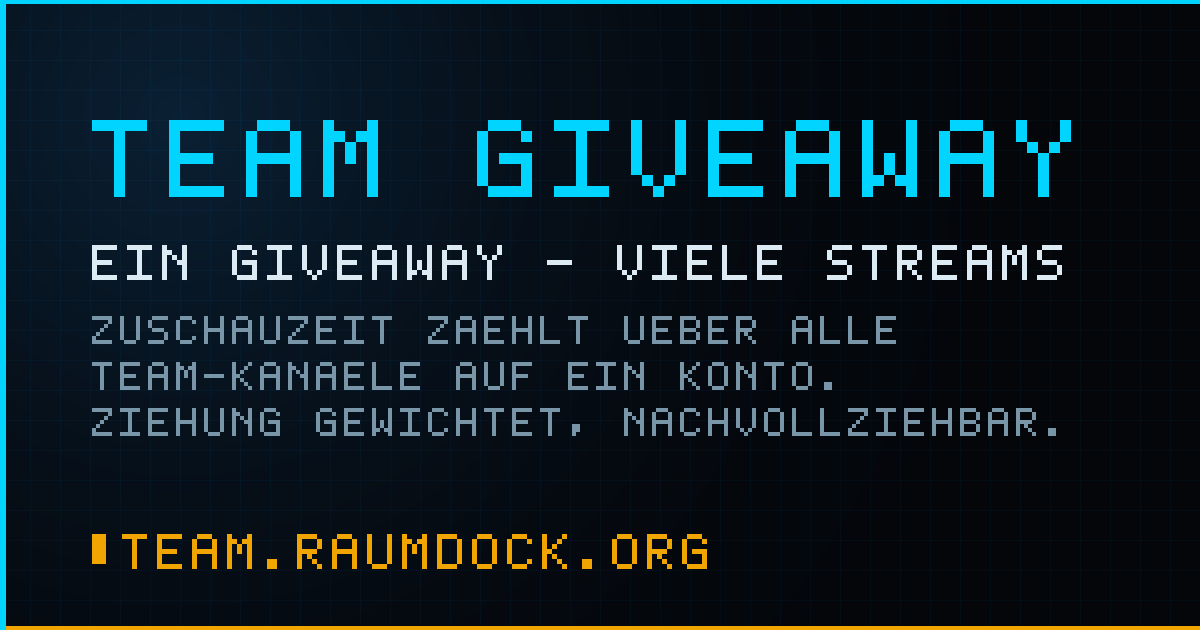
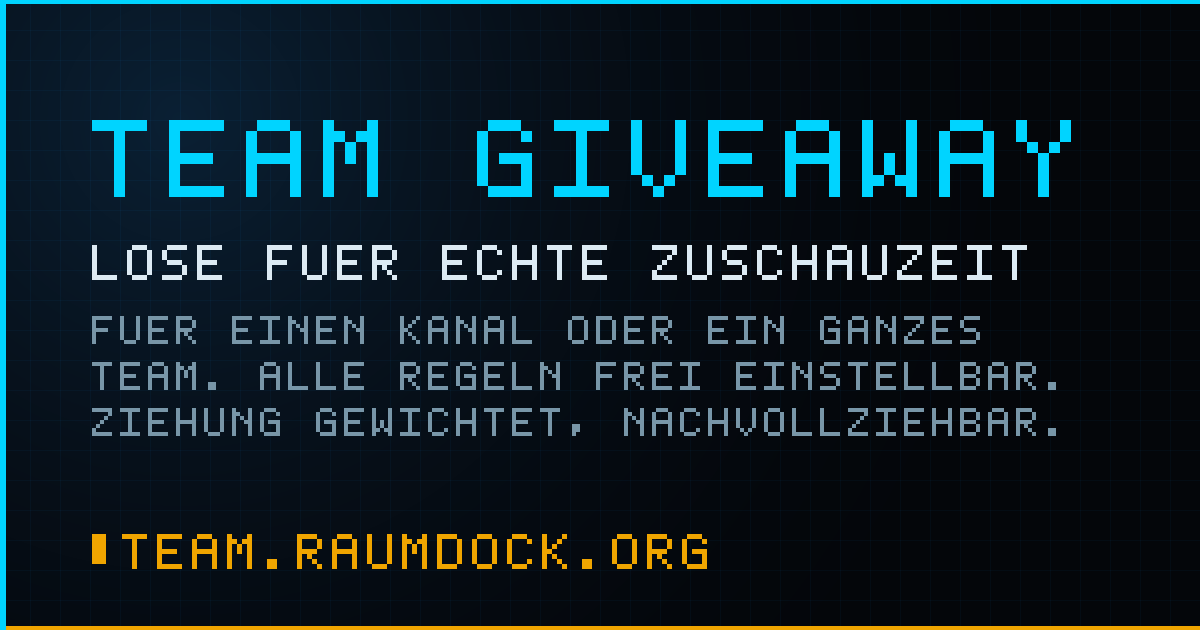
docs(web): state that rules are configurable and a team is optional
The landing page presented the defaults as if they were the rules -
"2 h = 1 Los", "mindestens 2 Team-Kanaelen folgen" - and framed the
whole product as team-only. Both misrepresent what the system does:
every threshold is a per-team setting, and a single channel with the
follow requirement set to 1 or 0 works exactly the same.

Each step now names which values it exposes, marked as defaults.
Hero, audience section and metadata cover the single-streamer case,
and FEATURES.md gains a settings table with actual ranges.

Verified against the engine before writing it down: one channel,
followMin 1 and 0 both yield eligible participants.

diff --git a/services/admin/public/home.html b/services/admin/public/home.html
@@ -3,8 +3,8 @@
 <head>
 <meta charset="UTF-8">
 <meta name="viewport" content="width=device-width, initial-scale=1">
-<title>Team Giveaway — Multi-Channel Community-Giveaway für Twitch-Teams</title>
-<meta name="description" content="Ein Giveaway über mehrere Twitch-Kanäle: Zuschauzeit zählt kanalübergreifend auf ein Konto. Gewichtete, nachvollziehbare Ziehung.">
+<title>Team Giveaway — Community-Giveaway nach Zuschauzeit für Twitch</title>
+<meta name="description" content="Giveaway nach echter Zuschauzeit — für einen Kanal oder ein ganzes Team. Alle Regeln frei einstellbar, Ziehung gewichtet und nachvollziehbar.">
 <link rel="canonical" href="https://team.raumdock.org/">
 
 <!-- Link-Vorschau (Discord, WhatsApp, X, Slack …) -->
@@ -12,16 +12,16 @@
 <meta property="og:site_name" content="Team Giveaway">
 <meta property="og:locale" content="de_DE">
 <meta property="og:url" content="https://team.raumdock.org/">
-<meta property="og:title" content="Team Giveaway — ein Giveaway, viele Kanäle">
-<meta property="og:description" content="Zuschauzeit zählt über alle Team-Kanäle auf ein Konto. Anmelden per Keyword im Chat, Ziehung gewichtet nach gesammelter Zeit — und vollständig nachvollziehbar.">
+<meta property="og:title" content="Team Giveaway — Lose für echte Zuschauzeit">
+<meta property="og:description" content="Für einen Kanal oder ein ganzes Team: Zuschauzeit wird zu gewichteten Losen. Anmeldung per Keyword im Chat, alle Regeln frei einstellbar, Ziehung vollständig nachvollziehbar.">
 <meta property="og:image" content="https://team.raumdock.org/admin/og-preview.png">
 <meta property="og:image:type" content="image/png">
 <meta property="og:image:width" content="1200">
 <meta property="og:image:height" content="630">
-<meta property="og:image:alt" content="Team Giveaway – Multi-Channel-Community-Giveaway für Twitch">
+<meta property="og:image:alt" content="Team Giveaway – Community-Giveaway nach Zuschauzeit für Twitch">
 <meta name="twitter:card" content="summary_large_image">
-<meta name="twitter:title" content="Team Giveaway — ein Giveaway, viele Kanäle">
-<meta name="twitter:description" content="Zuschauzeit zählt über alle Team-Kanäle auf ein Konto. Ziehung gewichtet nach gesammelter Zeit, vollständig nachvollziehbar.">
+<meta name="twitter:title" content="Team Giveaway — Lose für echte Zuschauzeit">
+<meta name="twitter:description" content="Für einen Kanal oder ein ganzes Team: Zuschauzeit wird zu gewichteten Losen. Ziehung gewichtet und vollständig nachvollziehbar.">
 <meta name="twitter:image" content="https://team.raumdock.org/admin/og-preview.png">
 <meta name="theme-color" content="#00d4ff">
 <style>
@@ -96,6 +96,11 @@
   .step .no{font-family:var(--mono);font-size:11px;color:var(--gold);letter-spacing:1px}
   .step h3{font-family:var(--disp);font-weight:600;font-size:19px;margin:8px 0 6px}
   .step p{font-size:13.5px;color:var(--mute)}
+  /* Hinweis, welche Werte in diesem Schritt frei einstellbar sind */
+  .cfg{display:block;margin-top:10px;padding-top:9px;border-top:1px dashed var(--edge2);
+    font-size:12px;line-height:1.45;color:var(--faint)}
+  .cfg::before{content:'⚙ ';color:var(--gold)}
+  .cfg i{font-style:normal;color:var(--mute)}
   .step::after{content:'→';position:absolute;right:-11px;top:50%;transform:translateY(-50%);color:var(--faint);font-size:15px;z-index:2}
   .step:last-child::after{display:none}
 
@@ -149,17 +154,17 @@
   <div class="hero">
     <div>
       <span class="eyebrow">Multi-Channel Community-Giveaway</span>
-      <h1>Ein Giveaway.<br>Das <span class="c">ganze Team</span>.<br>Faire <span class="g">Lose</span>.</h1>
-      <p class="lede">Mehrere Twitch-Kanäle, ein gemeinsames Giveaway. Deine Community sammelt Zuschauzeit über alle Streams des Teams — verwandelt in gewichtete Lose. Keine Bots, keine Zufalls-Discords. Nachvollziehbar bis zur Ziehung.</p>
+      <h1>Ein Giveaway.<br>Ein Kanal oder <span class="c">das ganze Team</span>.<br>Faire <span class="g">Lose</span>.</h1>
+      <p class="lede">Deine Community sammelt Zuschauzeit — verwandelt in gewichtete Lose. Als <b>einzelner Streamer</b> oder mit mehreren Kanälen, die auf ein gemeinsames Konto einzahlen. Alle Regeln stellst du selbst ein. Keine Bots, keine Zufalls-Discords. Nachvollziehbar bis zur Ziehung.</p>
       <div class="cta">
         <a class="btn tw" id="hero-cta" href="/admin/auth/twitch?next=/admin/">▶ Mit Twitch anmelden</a>
         <a class="btn ghost" href="#how">So funktioniert's</a>
       </div>
-      <div class="micro">Kostenlos für Streamer-Teams · Login mit Twitch · kein Passwort</div>
+      <div class="micro">Kostenlos für Streamer und Teams · Login mit Twitch · kein Passwort</div>
     </div>
 
     <div class="viz" id="viz">
-      <div class="viz-h"><span>Live · Zuschauzeit sammeln</span><span>2 h = 1 Los</span></div>
+      <div class="viz-h"><span>Live · Zuschauzeit sammeln</span><span>Standard: 2 h = 1 Los</span></div>
       <div class="chan"><div class="chan-top"><span class="nm">justcallmedeimos</span><span class="vt" data-vt>0:00</span></div><div class="bar"><i data-bar></i></div></div>
       <div class="chan"><div class="chan-top"><span class="nm">jerichoramirez</span><span class="vt" data-vt>0:00</span></div><div class="bar"><i data-bar></i></div></div>
       <div class="chan"><div class="chan-top"><span class="nm">x_jazzz_x</span><span class="vt" data-vt>0:00</span></div><div class="bar"><i data-bar></i></div></div>
@@ -175,7 +180,8 @@
 <section class="forwho">
   <div class="wrap">
     <div class="sec-label">Für wen</div>
-    <p>Für <b>Twitch-Streamer die als Team</b> auftreten und nacheinander streamen — und ihre <em>treuen Zuschauer</em> über alle Kanäle hinweg belohnen wollen.</p>
+    <p>Für <b>einzelne Streamer</b>, die ihre <em>treuen Zuschauer</em> für echte Zuschauzeit belohnen wollen — und für <b>Teams, die nacheinander streamen</b> und dieselbe Community über alle Kanäle hinweg zählen lassen.</p>
+    <p class="sec-sub" style="margin-top:10px">Ein Team ist <b>keine Voraussetzung</b>. Allein starten, später Kanäle dazunehmen — die gesammelte Zuschauzeit bleibt dabei erhalten.</p>
   </div>
 </section>
 
@@ -183,12 +189,12 @@
   <div class="wrap">
     <div class="sec-label">Ablauf</div>
     <h2>Von der Zuschauzeit zur Ziehung</h2>
-    <p class="sec-sub">Vier Schritte — genau in dieser Reihenfolge. Jeder baut auf dem vorigen auf.</p>
+    <p class="sec-sub">Vier Schritte — jeder baut auf dem vorigen auf. <b>Alle Werte legst du selbst fest</b>; die genannten Zahlen sind nur die Voreinstellung.</p>
     <div class="steps">
-      <div class="step"><div class="no">01</div><h3>Sammeln</h3><p>Zuschauer bekommen Zuschauzeit auf jedem Kanal. 2 h = 1 Los. Sinnvoller Chat gibt Bonus.</p></div>
-      <div class="step"><div class="no">02</div><h3>Beitreten</h3><p>Ab dem ersten Los per Keyword im Chat teilnehmen — das ist zugleich die Zustimmung zu den Bedingungen.</p></div>
-      <div class="step"><div class="no">03</div><h3>Qualifizieren</h3><p>Mindestens 2 Team-Kanälen folgen. Vor der Ziehung per Twitch-Helix echt geprüft.</p></div>
-      <div class="step"><div class="no">04</div><h3>Ziehen</h3><p>Zufall gewichtet nach Losen. Voller Audit-Snapshot. 14 Tage Meldefrist, sonst Ersatz.</p></div>
+      <div class="step"><div class="no">01</div><h3>Sammeln</h3><p>Zuschauer bekommen Zuschauzeit auf jedem Kanal. Sinnvoller Chat gibt Bonus.<span class="cfg">Einstellbar: 1 Los = X Stunden <i>(Standard 2 h)</i>, Chat-Bonus, zeitlich begrenzte Multiplier</span></p></div>
+      <div class="step"><div class="no">02</div><h3>Beitreten</h3><p>Per Keyword im Chat teilnehmen — das ist zugleich die Zustimmung zu den Bedingungen.<span class="cfg">Einstellbar: Keyword frei wählbar, jederzeit änderbar oder ganz aus</span></p></div>
+      <div class="step"><div class="no">03</div><h3>Qualifizieren</h3><p>Kanälen folgen und genug Zuschauzeit sammeln. Vor der Ziehung per Twitch-Helix echt geprüft.<span class="cfg">Einstellbar: 0–10 Follows nötig <i>(Standard 2)</i>, Lostopf ab 1 Los</span></p></div>
+      <div class="step"><div class="no">04</div><h3>Ziehen</h3><p>Zufall gewichtet nach Losen. Voller Audit-Snapshot.<span class="cfg">Einstellbar: Preis pro Ziehung, Testziehung, eigene Teilnahmebedingungen <i>(Meldefrist im Standardtext: 14 Tage)</i></span></p></div>
     </div>
   </div>
 </section>
@@ -197,7 +203,7 @@
   <div class="wrap">
     <div class="sec-label">Was drin ist</div>
     <h2>Alles für ein sauberes Giveaway</h2>
-    <p class="sec-sub">Ein Admin-Panel pro Team. Live-Steuerung, Overlays, volle Nachvollziehbarkeit.</p>
+    <p class="sec-sub">Ein Admin-Panel — für einen Kanal genauso wie für ein ganzes Team. Live-Steuerung, Overlays, volle Nachvollziehbarkeit.</p>
     <div class="feat">
       <div class="f"><span class="ic">📊</span><h3>Multi-Channel Viewtime</h3><p>Punkte pro Kanal, kanalübergreifend zusammengeführt. Wer überall dabei ist, hat mehr Chancen.</p></div>
       <div class="f"><span class="ic">💬</span><h3>Chat zählt</h3><p>Jede sinnvolle Nachricht (&gt;3 Wörter) gibt Viewtime-Bonus. Spam-Cooldown inklusive.</p></div>

diff --git a/tools/make-og-preview.js b/tools/make-og-preview.js
@@ -102,9 +102,9 @@ const line = (s, y, want, col) => { text(s, MARGIN, y, fit(s, want), ...col); re
 
 let y = 120;
 y += line('TEAM GIVEAWAY', y, 12, CYAN) + 48;
-y += line('EIN GIVEAWAY - VIELE STREAMS', y, 6, INK) + 36;
-y += line('ZUSCHAUZEIT ZAEHLT UEBER ALLE', y, 4, MUTE) + 18;
-y += line('TEAM-KANAELE AUF EIN KONTO.', y, 4, MUTE) + 18;
+y += line('LOSE FUER ECHTE ZUSCHAUZEIT', y, 6, INK) + 36;
+y += line('FUER EINEN KANAL ODER EIN GANZES', y, 4, MUTE) + 18;
+y += line('TEAM. ALLE REGELN FREI EINSTELLBAR.', y, 4, MUTE) + 18;
 y += line('ZIEHUNG GEWICHTET, NACHVOLLZIEHBAR.', y, 4, MUTE);
 
 // Fusszeile: Domain, goldener Marker davor

diff --git a/FEATURES.md b/FEATURES.md
@@ -1,12 +1,41 @@
 # Features
 
-CC-Giveaway ist ein Verlosungssystem für Twitch, bei dem **Zuschauzeit über
-mehrere Kanäle hinweg auf ein gemeinsames Konto zählt**. Es ist für Teams
-gebaut, die nacheinander streamen — wer bei einem Kanal zuschaut, sammelt für
-dasselbe Giveaway wie jemand, der bei einem anderen zuschaut.
+CC-Giveaway ist ein Verlosungssystem für Twitch, bei dem **Lose aus echter
+Zuschauzeit entstehen** statt aus einem Klick zur richtigen Sekunde.
+
+Es funktioniert für **einen einzelnen Kanal** genauso wie für ein **Team mit
+mehreren Kanälen** — dann zählt die Zuschauzeit von allen Kanälen auf ein
+gemeinsames Konto pro Zuschauer. Ein Team ist keine Voraussetzung; du kannst
+allein anfangen und später Kanäle dazunehmen, ohne dass gesammelte Zeit
+verlorengeht.
+
+**Alle Regeln sind einstellbar.** Die Zahlen in diesem Dokument sind
+Voreinstellungen, keine festen Vorgaben — siehe
+[Was du einstellen kannst](#was-du-einstellen-kannst).
 
 Drei Sichtweisen: [Streamer](#für-streamer) · [Streamteams](#für-streamteams) ·
 [Zuschauer](#für-zuschauer-und-teilnehmer)
+
+---
+
+## Was du einstellen kannst
+
+Nichts davon ist fest verdrahtet. Änderungen greifen sofort und rückwirkend —
+Coins werden immer aus der gespeicherten Zuschauzeit berechnet, nie eingefroren.
+
+| Einstellung | Bedeutung | Voreinstellung | Bereich |
+|---|---|---|---|
+| **Coin-Basis** | Wie viel Zuschauzeit ein Los kostet. Gleichzeitig die Schwelle für den Lostopf: drin ist, wer ≥1 Los hat. | 2 Stunden | 1 Minute – 100 Stunden |
+| **Follow-Bedingung** | Wie vielen der teilnehmenden Kanäle jemand folgen muss. `0` schaltet die Bedingung ganz ab. | 2 Kanäle | 0 – 10 |
+| **Keyword** | Das Wort, mit dem sich Zuschauer anmelden. Leer = keine Anmeldung nötig. | frei wählbar | beliebiger Text |
+| **Chat-Bonus** | Zuschauzeit-Gutschrift für sinnvolle Nachrichten, mit Cooldown gegen Spam. | +2 s ab 4 Wörtern | Code-Konstante |
+| **Viewtime-Multiplier** | Zeitlich begrenzter Faktor auf Zuschauzeit und Chat-Bonus. | aus | Faktor 1–10, 1 s – 24 h |
+| **Automatik** | Giveaway startet/pausiert automatisch mit dem Stream-Status. | aus | an/aus |
+| **Teilnehmende Kanäle** | Von einem bis viele. | dein eigener | 1 – n |
+
+Für den **Einzelstreamer-Betrieb** setzt du die Follow-Bedingung auf `1` (nur
+deinem eigenen Kanal folgen) oder `0` (Follow spielt keine Rolle). Alles andere
+funktioniert unverändert.
 
 ---
 
@@ -74,17 +103,23 @@ Drei Sichtweisen: [Streamer](#für-streamer) · [Streamteams](#für-streamteams)
 
 ## Für Streamteams
 
+> Dieser Abschnitt beschreibt den Mehr-Kanal-Betrieb. Als Einzelstreamer kannst
+> du ihn überspringen — das System läuft mit einem einzigen Kanal genauso.
+
 ### Das Grundprinzip
 - **Ein Giveaway, mehrere Kanäle.** Zuschauzeit von allen teilnehmenden Kanälen
   läuft auf ein gemeinsames Konto pro Zuschauer. Gedacht für Teams, die
   **nacheinander** streamen — die Community wandert mit, statt sich aufzuteilen.
+- **Später erweiterbar.** Startest du allein und nimmst später Kanäle dazu,
+  bleibt die bereits gesammelte Zuschauzeit aller Zuschauer erhalten.
 - **Kein Kanal wird bevorzugt.** Es zählt die Summe, nicht wo sie entstanden
   ist. Ein Zuschauer, der nur bei einem Teammitglied guckt, ist genauso
   teilnahmeberechtigt wie einer, der überall vorbeischaut.
 - **Follow-Bedingung als Team-Anreiz.** Ihr legt fest, wie vielen der
   teilnehmenden Kanäle jemand folgen muss, um in den Lostopf zu kommen
-  (Standard: zwei). Zuschauen zählt überall, aber Folgen ist die Eintrittskarte
-  — so profitiert das ganze Team, nicht nur der Kanal mit den meisten Zuschauern.
+  (Voreinstellung: zwei, abschaltbar). Zuschauen zählt überall, aber Folgen ist
+  die Eintrittskarte — so profitiert das ganze Team, nicht nur der Kanal mit den
+  meisten Zuschauern.
 
 ### Team-Verwaltung
 - **Team anlegen** und per **Einladungslink** Mitglieder aufnehmen. Jedes
@@ -131,8 +166,12 @@ Drei Sichtweisen: [Streamer](#für-streamer) · [Streamteams](#für-streamteams)
 - **Chatten bringt etwas.** Nachrichten mit mehr als drei Wörtern geben einen
   kleinen Zuschauzeit-Bonus, auf denselben Topf. Ein Cooldown verhindert, dass
   Spammen sich lohnt.
-- **Kanal egal.** Ob du bei einem oder allen Team-Kanälen zuschaust, macht für
-  deine Zuschauzeit keinen Unterschied — sie zählt zusammen.
+- **Kanal egal.** Läuft das Giveaway über mehrere Kanäle, macht es für deine
+  Zuschauzeit keinen Unterschied, bei welchem du zuschaust — sie zählt zusammen.
+- **Wie viel wofür nötig ist, legt der Streamer fest.** Wie lange eine Stunde
+  Zuschauen wert ist und wie vielen Kanälen du folgen musst, steht in den
+  Teilnahmebedingungen des jeweiligen Giveaways — `!los` sagt dir jederzeit
+  deinen konkreten Stand.
 
 ### Deinen Stand sehen
 - **`!los` im Chat** — der Bot sagt dir deine Punkte, deine Gewinnchance und,